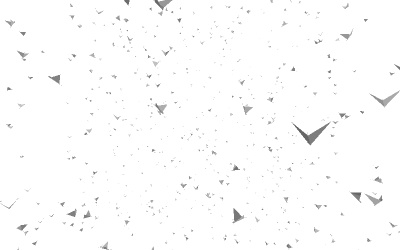
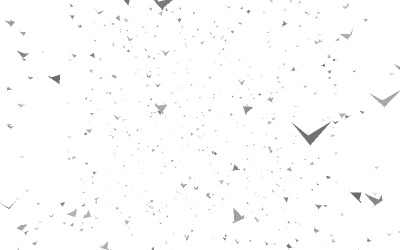
Fix webgl_gpgpu_birds references error (#20675)
* fix_webgl_gpgpu_birds_index_error

* screenshot

* Restore Left Right names

* Update webgl_gpgpu_birds.html

diff --git a/examples/webgl_gpgpu_birds.html b/examples/webgl_gpgpu_birds.html
@@ -318,7 +318,8 @@
 
 					super();
 
-					const triangles = BIRDS * 3;
+					const trianglesPerBird = 3;
+					const triangles = BIRDS * trianglesPerBird;
 					const points = triangles * 3;
 
 					const vertices = new THREE.BufferAttribute( new Float32Array( points * 3 ), 3 );
@@ -375,9 +376,10 @@
 
 					for ( let v = 0; v < triangles * 3; v ++ ) {
 
-						const i = ~ ~ ( v / 3 );
-						const x = ( i % WIDTH ) / WIDTH;
-						const y = ~ ~ ( i / WIDTH ) / WIDTH;
+						const triangleIndex = ~ ~ ( v / 3 );
+						const birdIndex = ~ ~ ( triangleIndex / trianglesPerBird )
+						const x = ( birdIndex % WIDTH ) / WIDTH;
+						const y = ~ ~ ( birdIndex / WIDTH ) / WIDTH;
 
 						const c = new THREE.Color(
 							0x444444 +
